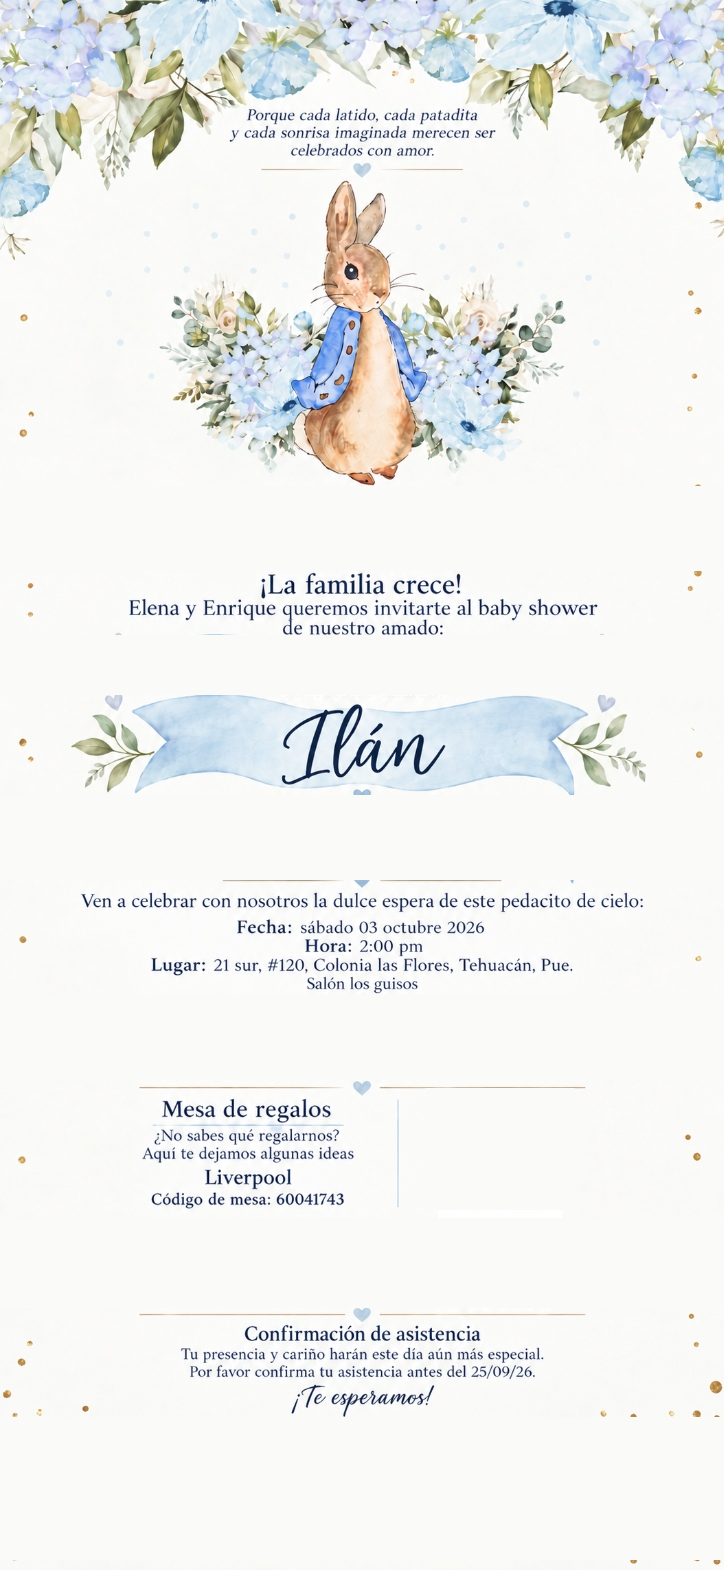
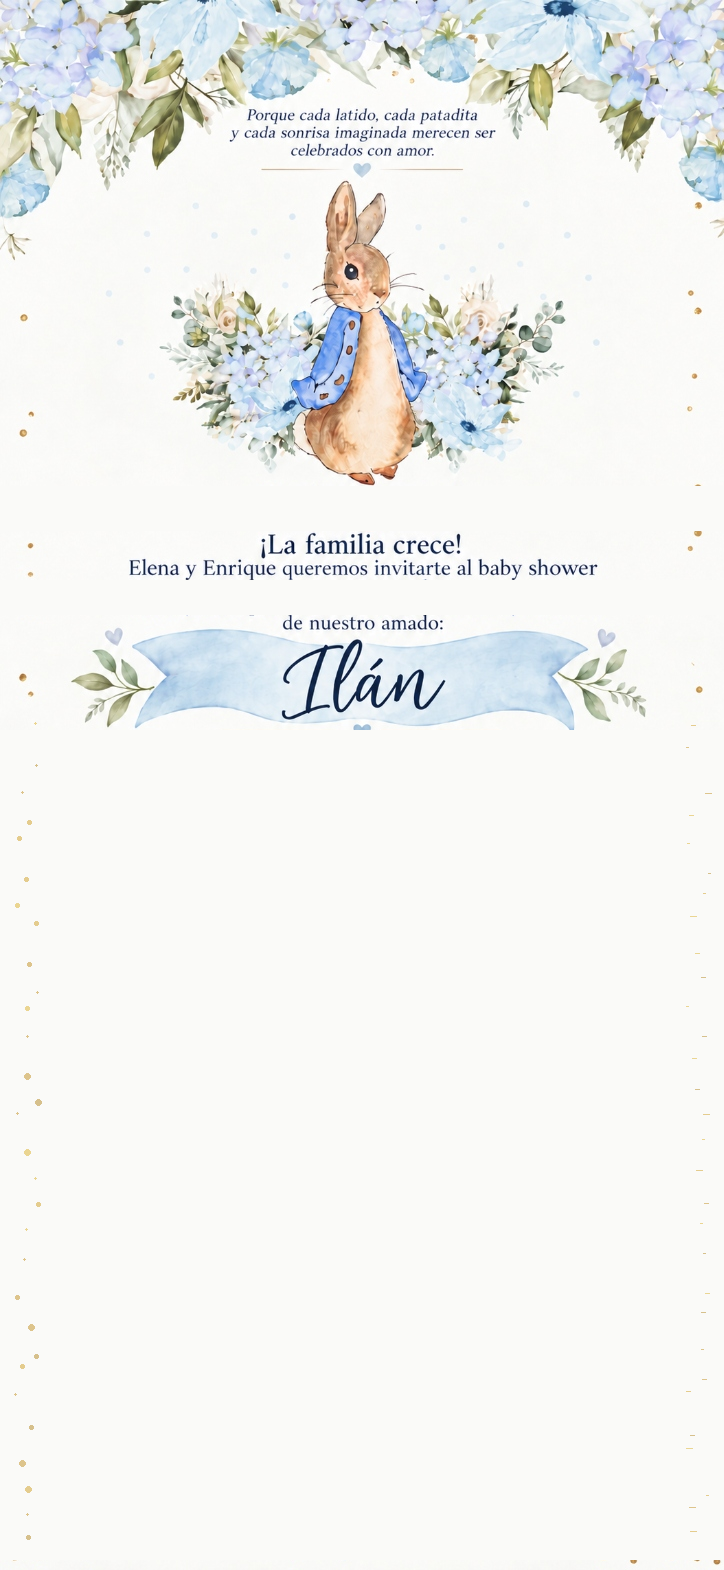
Calibrar animacion liston y agregar tarjetas interactivas de affordance para movil

diff --git a/style.css b/style.css
@@ -606,6 +606,11 @@ html, body {
   100% { left: 150%; }
 }
 
+/* Mobile interactive cards - hidden on desktop */
+.mobile-interactive-cards {
+  display: none;
+}
+
 /* =========================================================
    INTERACTIVE HOTSPOTS (DISCREET & NATURAL)
    ========================================================= */
@@ -1405,42 +1410,185 @@ html, body {
   }
 
   .layer-banner-stage {
-    top: 44.27%;
-    height: 6.69%;
+    top: 39.172% !important;
+    left: 7.597% !important;
+    width: 84.945% !important;
+    height: 6.688% !important;
   }
 
-  .hotspot-datetime {
-    top: 58.41%;
-    height: 2.48%;
-  }
-
-  .hotspot-location {
-    top: 60.96%;
-    height: 2.61%;
-  }
-
-  .hotspot-registry {
-    top: 68.8%;
-    height: 8.5%;
-  }
-
-  /* Ocultar QR en móviles */
-  .hotspot-qr {
+  /* Ocultar hotspots planos de escritorio en móviles */
+  .hotspot-datetime,
+  .hotspot-location,
+  .hotspot-registry,
+  .hotspot-qr,
+  .hotspot-rsvp,
+  .mobile-registry-cta,
+  .layer-esperamos-shimmer {
     display: none !important;
   }
 
-  /* Mostrar botón acorde al diseño para mesa de regalos */
-  .mobile-registry-cta {
+  /* 6. TARJETAS INTERACTIVAS Y CLICABLES EN MÓVIL (AFFORDANCE) */
+  .mobile-interactive-cards {
     display: flex !important;
-    top: 69.5%;
-    left: 60%;
-    width: 18.5%;
-    height: 7.8%;
+    flex-direction: column;
+    position: absolute;
+    top: 48.2%;
+    left: 6%;
+    width: 88%;
+    gap: 13px;
+    z-index: 35;
+    box-sizing: border-box;
   }
 
-  .hotspot-rsvp {
-    top: 84.27%;
-    height: 6.00%;
+  .affordance-card {
+    background: rgba(255, 255, 255, 0.90);
+    backdrop-filter: blur(12px);
+    -webkit-backdrop-filter: blur(12px);
+    border-radius: 14px;
+    box-shadow: 0 4px 12px rgba(0, 0, 0, 0.06);
+    border: 1px solid rgba(214, 232, 247, 0.92);
+    padding: 12px 14px;
+    display: flex;
+    flex-direction: column;
+    gap: 9px;
+    transition: transform 0.2s ease, box-shadow 0.2s ease;
+    box-sizing: border-box;
+  }
+
+  .affordance-card:active {
+    transform: scale(0.985);
+    box-shadow: 0 2px 6px rgba(0, 0, 0, 0.04);
+  }
+
+  .card-header-line {
+    display: flex;
+    align-items: flex-start;
+    gap: 10px;
+  }
+
+  .card-icon {
+    font-size: 1.3rem;
+    line-height: 1.1;
+    flex-shrink: 0;
+  }
+
+  .card-titles {
+    flex: 1;
+    min-width: 0;
+  }
+
+  .card-main-title {
+    font-family: var(--font-serif);
+    font-size: 0.94rem;
+    font-weight: 700;
+    color: #23405f;
+    margin: 0 0 2px 0;
+    line-height: 1.25;
+  }
+
+  .card-main-sub {
+    font-family: var(--font-sans);
+    font-size: 0.78rem;
+    color: #4a6275;
+    margin: 0;
+    line-height: 1.35;
+  }
+
+  .card-btn-action {
+    display: flex;
+    align-items: center;
+    justify-content: center;
+    gap: 6px;
+    width: 100%;
+    padding: 9px 12px;
+    border-radius: 10px;
+    font-family: var(--font-sans);
+    font-size: 0.78rem;
+    font-weight: 700;
+    text-decoration: none;
+    cursor: pointer;
+    box-sizing: border-box;
+    transition: background-color 0.2s ease, transform 0.15s ease;
+    border: none;
+    text-align: center;
+  }
+
+  .btn-calendar-action {
+    background: #f0f5fb;
+    color: #28547a;
+    border: 1px solid #cde0f2;
+  }
+
+  .btn-calendar-action:active {
+    background: #e2eef9;
+    transform: translateY(1px);
+  }
+
+  .btn-maps-action {
+    background: #edf7f0;
+    color: #1a633a;
+    border: 1px solid #c5e6ce;
+  }
+
+  .btn-maps-action:active {
+    background: #dcf1e3;
+    transform: translateY(1px);
+  }
+
+  .registry-code-badge {
+    display: flex;
+    align-items: center;
+    justify-content: space-between;
+    background: rgba(235, 243, 250, 0.85);
+    border-radius: 8px;
+    padding: 5px 10px;
+    font-size: 0.75rem;
+    color: #3b5266;
+    margin-top: 1px;
+  }
+
+  .registry-code-badge .badge-brand {
+    font-weight: 700;
+    color: #1f3b54;
+  }
+
+  .registry-code-badge .badge-code strong {
+    color: #185a9d;
+    font-size: 0.85rem;
+    letter-spacing: 0.5px;
+  }
+
+  .btn-registry-action {
+    background: #fff5eb;
+    color: #b05705;
+    border: 1px solid #fedbb8;
+  }
+
+  .btn-registry-action:active {
+    background: #ffebd4;
+    transform: translateY(1px);
+  }
+
+  .btn-rsvp-action {
+    background: linear-gradient(135deg, #25D366 0%, #128C7E 100%);
+    color: #ffffff;
+    box-shadow: 0 4px 10px rgba(37, 211, 102, 0.28);
+    font-size: 0.85rem;
+    padding: 10px 14px;
+  }
+
+  .btn-rsvp-action:active {
+    transform: translateY(1px);
+    box-shadow: 0 2px 5px rgba(37, 211, 102, 0.2);
+  }
+
+  .esperamos-script {
+    font-family: var(--font-script);
+    font-size: 2rem;
+    color: #4a779d;
+    text-align: center;
+    margin-top: 2px;
+    line-height: 1;
   }
 
   .music-floating-btn {

diff --git a/index.html b/index.html
@@ -190,6 +190,86 @@
         <span class="hotspot-indicator rsvp-pulse-ind">💌 Confirmar aquí</span>
       </button>
 
+      <!-- 6. MOBILE INTERACTIVE AFFORDANCE CARDS -->
+      <div class="mobile-interactive-cards" id="mobile-cards">
+        
+        <!-- Tarjeta Fecha y Hora -->
+        <div class="affordance-card card-datetime">
+          <div class="card-header-line">
+            <span class="card-icon">📅</span>
+            <div class="card-titles">
+              <h3 class="card-main-title">Fecha y Hora</h3>
+              <p class="card-main-sub">Sábado 03 de Octubre de 2026 · 2:00 pm</p>
+            </div>
+          </div>
+          <button class="card-btn-action btn-calendar-action" id="mobile-btn-calendar" aria-label="Agregar evento a Google Calendar o Apple Calendar">
+            <span>📅 Agregar a Google Calendar / Apple Calendar</span>
+          </button>
+        </div>
+
+        <!-- Tarjeta Lugar -->
+        <div class="affordance-card card-location">
+          <div class="card-header-line">
+            <span class="card-icon">📍</span>
+            <div class="card-titles">
+              <h3 class="card-main-title">Salón los guisos</h3>
+              <p class="card-main-sub">21 sur, #120, Colonia las Flores, Tehuacán, Pue.</p>
+            </div>
+          </div>
+          <a 
+            href="https://www.google.com/maps/search/?api=1&query=21+sur+120+Colonia+las+Flores+Tehuacan+Puebla+Salon+los+guisos" 
+            target="_blank" 
+            rel="noopener noreferrer" 
+            class="card-btn-action btn-maps-action"
+            id="mobile-btn-maps"
+            aria-label="Abrir cómo llegar en Google Maps o Waze"
+          >
+            <span>📍 Cómo llegar (Google Maps / Waze)</span>
+          </a>
+        </div>
+
+        <!-- Tarjeta Mesa de Regalos -->
+        <div class="affordance-card card-registry">
+          <div class="card-header-line">
+            <span class="card-icon">🎁</span>
+            <div class="card-titles">
+              <h3 class="card-main-title">Mesa de Regalos</h3>
+              <p class="card-main-sub">¿No sabes qué regalarnos? Aquí te dejamos algunas ideas</p>
+            </div>
+          </div>
+          <div class="registry-code-badge">
+            <span class="badge-brand">Liverpool</span>
+            <span class="badge-code">Código: <strong>60041743</strong></span>
+          </div>
+          <a 
+            href="https://mesaderegalos.liverpool.com.mx/milistaderegalos/60041743" 
+            target="_blank" 
+            rel="noopener noreferrer" 
+            class="card-btn-action btn-registry-action"
+            id="mobile-btn-registry"
+            aria-label="Ver mesa de regalos en Liverpool"
+          >
+            <span>🎁 Ver Mesa en Liverpool ›</span>
+          </a>
+        </div>
+
+        <!-- Tarjeta Confirmación de Asistencia -->
+        <div class="affordance-card card-rsvp">
+          <div class="card-header-line">
+            <span class="card-icon">💌</span>
+            <div class="card-titles">
+              <h3 class="card-main-title">Confirmación de Asistencia</h3>
+              <p class="card-main-sub">Tu presencia y cariño harán este día aún más especial.<br>Por favor confirma antes del <strong>25/09/26</strong>.</p>
+            </div>
+          </div>
+          <button class="card-btn-action btn-rsvp-action" id="mobile-btn-rsvp" aria-label="Confirmar asistencia por WhatsApp">
+            <span>💌 Confirmar por WhatsApp</span>
+          </button>
+          <div class="esperamos-script">¡Te esperamos!</div>
+        </div>
+
+      </div> <!-- /mobile-interactive-cards -->
+
     </div> <!-- /card-aspect-wrapper -->
 
     <!-- FLOATING DISCREET MUSIC CONTROL BUTTON -->

diff --git a/app.js b/app.js
@@ -354,6 +354,24 @@ function initHotspotsAndDock() {
   if (dockRsvpBtn) {
     dockRsvpBtn.addEventListener('click', () => openModal('rsvp-modal'));
   }
+
+  // Mobile Affordance Cards: Event Listeners
+  const mobileBtnCalendar = document.getElementById('mobile-btn-calendar');
+  if (mobileBtnCalendar) {
+    mobileBtnCalendar.addEventListener('click', () => openModal('calendar-modal'));
+  }
+
+  const mobileBtnRsvp = document.getElementById('mobile-btn-rsvp');
+  if (mobileBtnRsvp) {
+    mobileBtnRsvp.addEventListener('click', () => openModal('rsvp-modal'));
+  }
+
+  const mobileBtnRegistry = document.getElementById('mobile-btn-registry');
+  if (mobileBtnRegistry) {
+    mobileBtnRegistry.addEventListener('click', () => {
+      showToast("Abriendo Mesa de Regalos Liverpool... 🎁");
+    });
+  }
 }
 
 /* =========================================================
